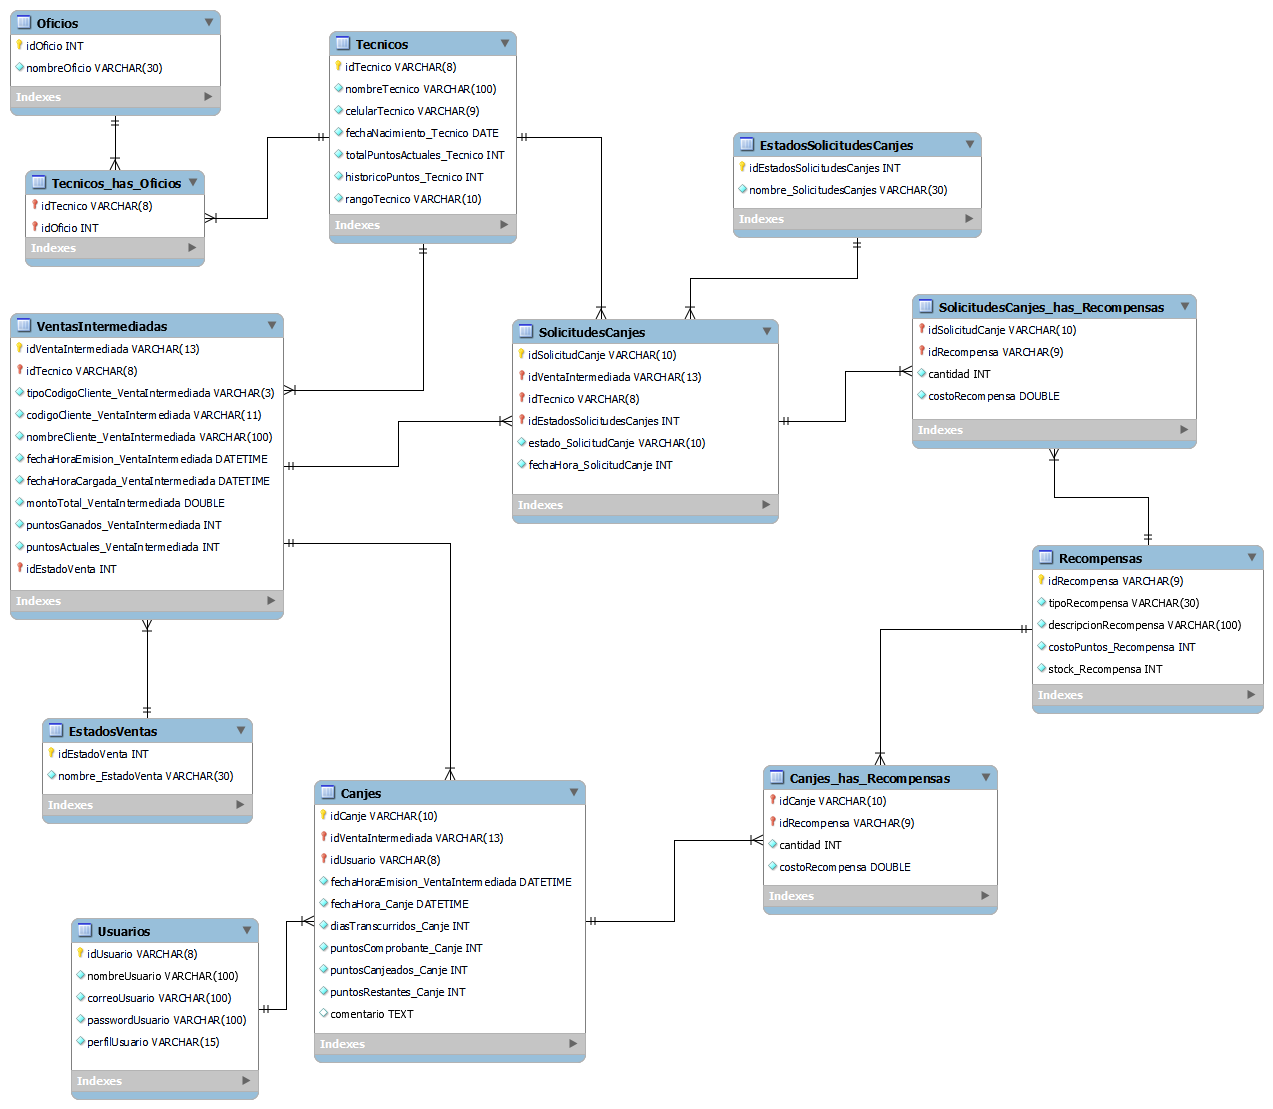
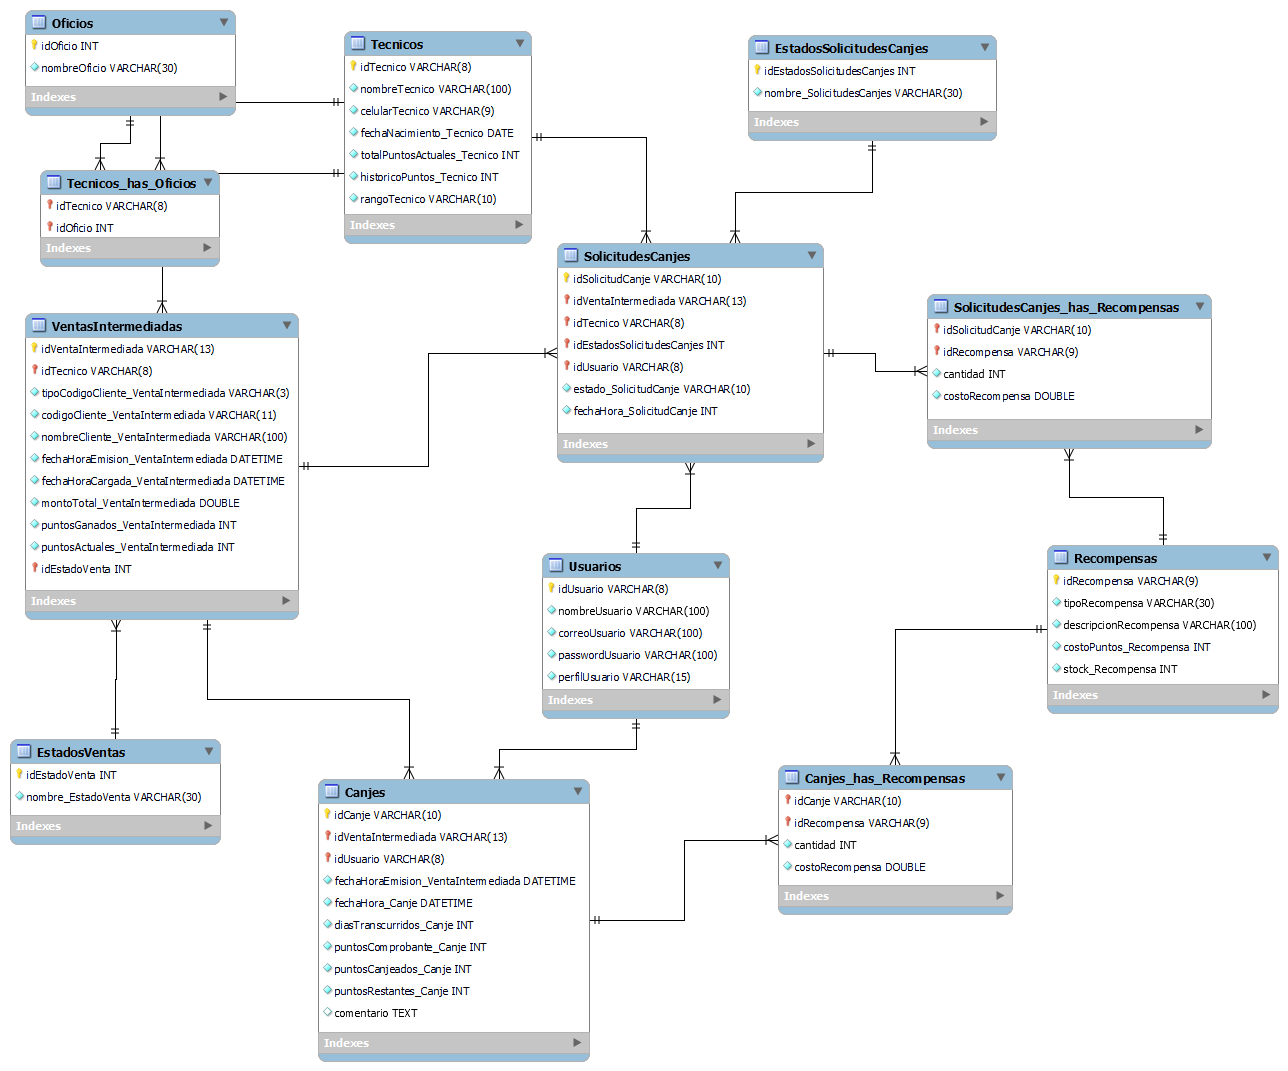
Migraciones y seeders de SolicitudCanjes

diff --git a/public/css/configuracionStyle.css b/public/css/configuracionStyle.css
@@ -24,7 +24,7 @@ body {
 }
 
 .firstRow {
-    margin-bottom: 1rem;
+    margin: 1rem 0;
 }
 
 .firstRow h1 {

diff --git a/database/seeders/SolicitudesCanjeSeeder.php b/database/seeders/SolicitudesCanjeSeeder.php
@@ -2,71 +2,35 @@
 
 namespace Database\Seeders;
 
+use App\Models\SolicitudesCanje;
 use Illuminate\Database\Seeder;
 use Illuminate\Support\Facades\DB;
 
 class SolicitudesCanjeSeeder extends Seeder
 {
-    /**
-     * Run the database seeds.
-     */
     public function run(): void
     {
-        // Poblar EstadosCanje
-        DB::table('EstadosCanje')->insertOrIgnore([
-            ['idEstadoCanje' => 1, 'descripcion' => 'pendiente', 'created_at' => now(), 'updated_at' => now()],
-            ['idEstadoCanje' => 2, 'descripcion' => 'aprobado', 'created_at' => now(), 'updated_at' => now()],
-            ['idEstadoCanje' => 3, 'descripcion' => 'rechazado', 'created_at' => now(), 'updated_at' => now()],
-        ]);
-
-        // Poblar SolicitudesCanje
-        DB::table('SolicitudesCanje')->insertOrIgnore([
+        $solicitudescanjes = [
             [
                 'idSolicitudCanje' => 'SOLICANJ-00001',
-                'idVentaIntermediada' => 'F001-00000072', // Verifica que exista en VentasIntermediadas
-                'idTecnico' => '77043114',               // Verifica que exista en Tecnicos
-                'idEstadoCanje' => 1,                    // Estado "pendiente"
-                'fechaSolicitud' => now(),
-                'created_at' => now(),
-                'updated_at' => now(),
+                'idVentaIntermediada' => 'F001-00000072',
+                'idTecnico' => '77043114', // Josué García
+                'idEstadoSolicitudCanje' => 1, // Pendiente
+                //'fecha_SolicitudCanje' => now(),
+                //'comentario_SolicitudCanje' => ,
             ],
             [
                 'idSolicitudCanje' => 'SOLICANJ-00002',
-                'idVentaIntermediada' => 'F001-00000073', // Verifica que exista en VentasIntermediadas
-                'idTecnico' => '77665544',               // Verifica que exista en Tecnicos
-                'idEstadoCanje' => 2,                    // Estado "aprobado"
-                'fechaSolicitud' => now(),
-                'created_at' => now(),
-                'updated_at' => now(),
+                'idVentaIntermediada' => 'F001-00000072',
+                'idTecnico' => '77665544', // Manuel Carrasco
+                'idEstadoSolicitudCanje' => 2, // Aprobado
+                //'fecha_SolicitudCanje' => now(),
+                'comentario_SolicitudCanje' => 'Comentario opcional del usuario cuando aprueba o rechaza la solicitud',
             ],
-        ]);
+        ];
 
-        // Poblar SolicitudCanjeRecompensas
-        DB::table('SolicitudCanjeRecompensas')->insertOrIgnore([
-            [
-                'idSolicitudCanje' => 'SOLICANJ-00001',
-                'idRecompensa' => 'RECOM-001', // Verifica que exista en Recompensas
-                'cantidad' => 2,
-                'costoRecompensa' => 500.0,
-                'created_at' => now(),
-                'updated_at' => now(),
-            ],
-            [
-                'idSolicitudCanje' => 'SOLICANJ-00001',
-                'idRecompensa' => 'RECOM-002', // Verifica que exista en Recompensas
-                'cantidad' => 1,
-                'costoRecompensa' => 250.0,
-                'created_at' => now(),
-                'updated_at' => now(),
-            ],
-            [
-                'idSolicitudCanje' => 'SOLICANJ-00002',
-                'idRecompensa' => 'RECOM-003', // Verifica que exista en Recompensas
-                'cantidad' => 3,
-                'costoRecompensa' => 750.0,
-                'created_at' => now(),
-                'updated_at' => now(),
-            ],
-        ]);
+        foreach ($solicitudescanjes as $solCanj) {
+            SolicitudesCanje::create($solCanj);
+        }
     }
 }

diff --git a/app/Models/SolicitudesCanje.php b/app/Models/SolicitudesCanje.php
@@ -9,7 +9,7 @@ class SolicitudesCanje extends Model
 {
     use HasFactory;
 
-    protected $table = 'SolicitudesCanje';
+    protected $table = 'SolicitudesCanjes';
     protected $primaryKey = 'idSolicitudCanje';
     public $incrementing = false; // El ID no es autoincremental
 
@@ -17,19 +17,34 @@ class SolicitudesCanje extends Model
         'idSolicitudCanje',
         'idVentaIntermediada',
         'idTecnico',
-        'idEstadoCanje',
-        'fechaSolicitud',
+        'idEstadoSolicitudCanje',
+        'idUser',
+        'fecha_SolicitudCanje',
+        'comentario_SolicitudCanje'
     ];
 
-    // Relación con EstadosCanje
-    public function estado()
+    public function user() {
+        return $this->belongsTo('App\Models\User');
+    }
+    
+    public function estadosSolicitudCanje()
     {
-        return $this->belongsTo(EstadosCanje::class, 'idEstadoCanje', 'idEstadoCanje');
+        return $this->belongsTo(EstadosSolicitudCanje::class, 'idEstadoSolicitudCanje', 'idEstadoSolicitudCanje');
+    }
+
+    public function tecnicos()
+    {
+        return $this->belongsTo(Tecnico::class, 'idTecnico', 'idTecnico');
+    }
+
+    public function ventaIntermediada()
+    {
+        return $this->belongsTo(VentaIntermediada::class, 'idVentaIntermediada', 'idVentaIntermediada');
     }
 
     // Relación con SolicitudCanjeRecompensas
-    public function recompensas()
+    public function solicitudCanjeRecompensa()
     {
-        return $this->hasMany(SolicitudCanjeRecompensas::class, 'idSolicitudCanje', 'idSolicitudCanje');
+        return $this->hasMany(SolicitudCanjeRecompensa::class, 'idSolicitudCanje', 'idSolicitudCanje');
     }
 }

diff --git a/database/migrations/2024_11_18_160257_create_solicitudes_canjes_table.php b/database/migrations/2024_11_18_160257_create_solicitudes_canjes_table.php
@@ -1,0 +1,33 @@
+<?php
+
+use Illuminate\Database\Migrations\Migration;
+use Illuminate\Database\Schema\Blueprint;
+use Illuminate\Support\Facades\Schema;
+
+return new class extends Migration
+{
+    public function up(): void
+    {
+        Schema::create('SolicitudesCanjes', function (Blueprint $table) {
+            $table->string('idSolicitudCanje', 14)->primary(); // Formato SOLICANJ-00001
+            $table->string('idVentaIntermediada', 13); // ID del comprobante de venta
+            $table->string('idTecnico', 8); // ID del técnico que hace la solicitud
+            $table->unsignedBigInteger('idEstadoSolicitudCanje')->default(1); // Estado de la solicitud con referencia a EstadosCanje
+            $table->unsignedBigInteger('idUser')->nullable(); // Solo se rellena cuando el estado es 'Aprobado' o 'Rechazado'
+            $table->timestamp('fecha_SolicitudCanje')->useCurrent(); // Fecha de creación de la solicitud
+            $table->text('comentario_SolicitudCanje')->nullable(); // Inicialmente vacío, cuando un usuario apruebe o desapruebe se realiza un comentario (opcional).
+           
+            $table->foreign('idVentaIntermediada')->references('idVentaIntermediada')->on('VentasIntermediadas');
+            $table->foreign('idTecnico')->references('idTecnico')->on('Tecnicos');
+            $table->foreign('idEstadoSolicitudCanje')->references('idEstadoSolicitudCanje')->on('EstadosSolicitudesCanjes');
+            $table->foreign('idUser')->references('id')->on('users');
+
+            $table->timestamps();
+        });
+    }
+
+    public function down(): void
+    {
+        Schema::dropIfExists('SolicitudesCanjes');
+    }
+};

diff --git a/database/migrations/2024_11_18_161255_create_solicitudescanjesrecompensas_table.php b/database/migrations/2024_11_18_161255_create_solicitudescanjesrecompensas_table.php
@@ -1,0 +1,29 @@
+<?php
+
+use Illuminate\Database\Migrations\Migration;
+use Illuminate\Database\Schema\Blueprint;
+use Illuminate\Support\Facades\Schema;
+
+return new class extends Migration
+{
+    public function up(): void
+    {
+        Schema::create('SolicitudesCanjesRecompensas', function (Blueprint $table) {
+            $table->string('idSolicitudCanje', 14); // ID de solicitud de canje (SOLICANJ-00001)
+            $table->string('idRecompensa', 9); // ID de recompensa (RECOM-001)
+            $table->integer('cantidad')->unsigned(); 
+            $table->double('costoRecompensa')->unsigned(); // Costo de la recompensa en puntos
+
+            // Relaciones
+            $table->foreign('idSolicitudCanje')->references('idSolicitudCanje')->on('SolicitudesCanjes')->onDelete('cascade');
+            $table->foreign('idRecompensa')->references('idRecompensa')->on('Recompensas')->onDelete('cascade');
+
+            $table->timestamps();
+        });
+    }
+
+    public function down(): void
+    {
+        Schema::dropIfExists('SolicitudesCanjesRecompensas');
+    }
+};

diff --git a/database/seeders/SolicitudCanjeRecompensaSeeder.php b/database/seeders/SolicitudCanjeRecompensaSeeder.php
@@ -1,0 +1,32 @@
+<?php
+
+namespace Database\Seeders;
+
+use App\Models\SolicitudCanjeRecompensa;
+use Illuminate\Database\Console\Seeds\WithoutModelEvents;
+use Illuminate\Database\Seeder;
+
+class SolicitudCanjeRecompensaSeeder extends Seeder
+{
+    public function run(): void
+    {
+        $solicitudesCanjeRecompensas = [
+            [
+                'idSolicitudCanje' => 'SOLICANJ-00001',
+                'idRecompensa' => 'RECOM-001', // Pulsera de silicona
+                'cantidad' => 1,
+                'costoRecompensa' => 1,
+            ],
+            [
+                'idSolicitudCanje' => 'SOLICANJ-00002',
+                'idRecompensa' => 'RECOM-002', // Par de rodilleras para cerámica
+                'cantidad' => 1,
+                'costoRecompensa' => 35,
+            ],
+        ];
+
+        foreach ($solicitudesCanjeRecompensas as $solcanjrecom) {
+            SolicitudCanjeRecompensa::create($solcanjrecom);
+        }
+    }
+}

diff --git a/database/seeders/EstadoSolicitudCanjeSeeder.php b/database/seeders/EstadoSolicitudCanjeSeeder.php
@@ -1,0 +1,32 @@
+<?php
+
+namespace Database\Seeders;
+
+use App\Models\EstadosSolicitudCanje;
+use Illuminate\Database\Console\Seeds\WithoutModelEvents;
+use Illuminate\Database\Seeder;
+
+class EstadoSolicitudCanjeSeeder extends Seeder
+{
+    public function run(): void
+    {
+        $estadossolicitudcanjes = [
+            [
+                'idEstadoSolicitudCanje' => 1,
+                'nombre_EstadoSolicitudCanje' => 'Pendiente',
+            ],
+            [
+                'idEstadoSolicitudCanje' => 2,
+                'nombre_EstadoSolicitudCanje' => 'Aprobado',
+            ],
+            [
+                'idEstadoSolicitudCanje' => 3,
+                'nombre_EstadoSolicitudCanje' => 'Rechazado',
+            ],
+        ];
+
+        foreach ($estadossolicitudcanjes as $estSolCan) {
+            EstadosSolicitudCanje::create($estSolCan);
+        }
+    }
+}

diff --git a/app/Models/SolicitudCanjeRecompensa.php b/app/Models/SolicitudCanjeRecompensa.php
@@ -5,11 +5,11 @@ namespace App\Models;
 use Illuminate\Database\Eloquent\Factories\HasFactory;
 use Illuminate\Database\Eloquent\Model;
 
-class SolicitudCanjeRecompensas extends Model
+class SolicitudCanjeRecompensa extends Model
 {
     use HasFactory;
 
-    protected $table = 'SolicitudCanjeRecompensas';
+    protected $table = 'SolicitudesCanjesRecompensas';
 
     protected $fillable = [
         'idSolicitudCanje',
@@ -18,9 +18,13 @@ class SolicitudCanjeRecompensas extends Model
         'costoRecompensa',
     ];
 
-    // Relación con SolicitudesCanje
-    public function solicitud()
+    public function solicitudCanje()
     {
         return $this->belongsTo(SolicitudesCanje::class, 'idSolicitudCanje', 'idSolicitudCanje');
+    }
+
+    public function recompensas()
+    {
+        return $this->belongsTo(Recompensa::class, 'idRecompensa', 'idRecompensa');
     }
 }

diff --git a/database/migrations/2024_11_18_160038_create_estado_solicitud_canje_table.php b/database/migrations/2024_11_18_160038_create_estado_solicitud_canje_table.php
@@ -1,0 +1,23 @@
+<?php
+
+use Illuminate\Database\Migrations\Migration;
+use Illuminate\Database\Schema\Blueprint;
+use Illuminate\Support\Facades\Schema;
+
+return new class extends Migration
+{
+    public function up(): void
+    {
+        Schema::create('EstadosSolicitudesCanjes', function (Blueprint $table) {
+            $table->id('idEstadoSolicitudCanje'); // ID único para cada estado
+            $table->string('nombre_EstadoSolicitudCanje', 20); // Descripción del estado, e.g., 'pendiente', 'aprobado', 'rechazado'
+            $table->timestamps(); //created_at updated_at
+            $table->softDeletes(); //deleted_at
+        });
+    }
+
+    public function down(): void
+    {
+        Schema::dropIfExists('EstadosSolicitudesCanjes');
+    }
+};

diff --git a/app/Models/EstadosSolicitudCanje.php b/app/Models/EstadosSolicitudCanje.php
@@ -1,0 +1,26 @@
+<?php
+
+namespace App\Models;
+
+use Illuminate\Database\Eloquent\Model;
+use Illuminate\Database\Eloquent\SoftDeletes;
+
+class EstadosSolicitudCanje extends Model
+{
+    use SoftDeletes;
+
+    protected $table = "EstadosSolicitudesCanjes";
+    
+    protected $primaryKey = 'idEstadoSolicitudCanje';
+
+    public $incrementing = true;  // Indica que la clave primaria es auto-incrementable
+
+    protected $fillable = [
+        'idEstadoSolicitudCanje',
+        'nombre_EstadoSolicitudCanje',
+    ];
+
+    public function solicitudesCanje() {
+        return $this->hasMany(SolicitudesCanje::class, 'idEstadoSolicitudCanje', 'idEstadoSolicitudCanje');
+    }
+}

diff --git a/database/seeders/DatabaseSeeder.php b/database/seeders/DatabaseSeeder.php
@@ -19,7 +19,9 @@ class DatabaseSeeder extends Seeder
         $this->call(VentaIntermediadaSeeder::class);
         $this->call(CanjeSeeder::class);
         $this->call(CanjeRecompensaSeeder::class);
+        $this->call(EstadoSolicitudCanjeSeeder::class);
         $this->call(SolicitudesCanjeSeeder::class);
+        $this->call(SolicitudCanjeRecompensaSeeder::class);
         $this->call(Login_tecnicoSeeder::class);
         $endTime = microtime(true); // Marca el fin del tiempo
         $totalTime = $endTime - $startTime; // Calcula el tiempo total

diff --git a/app/Models/Tecnico.php b/app/Models/Tecnico.php
@@ -41,6 +41,10 @@ class Tecnico extends Model
         return $this->hasMany(TecnicoOficio::class, 'idTecnico', 'idTecnico');
     }
 
+    public function solicitudesCanje() {
+        return $this->hasMany(SolicitudesCanje::class, 'idTecnico', 'idTecnico');
+    }
+
     public function oficios() {
         return $this->belongsToMany(Oficio::class, 'TecnicosOficios', 'idTecnico', 'idOficio');
     }
